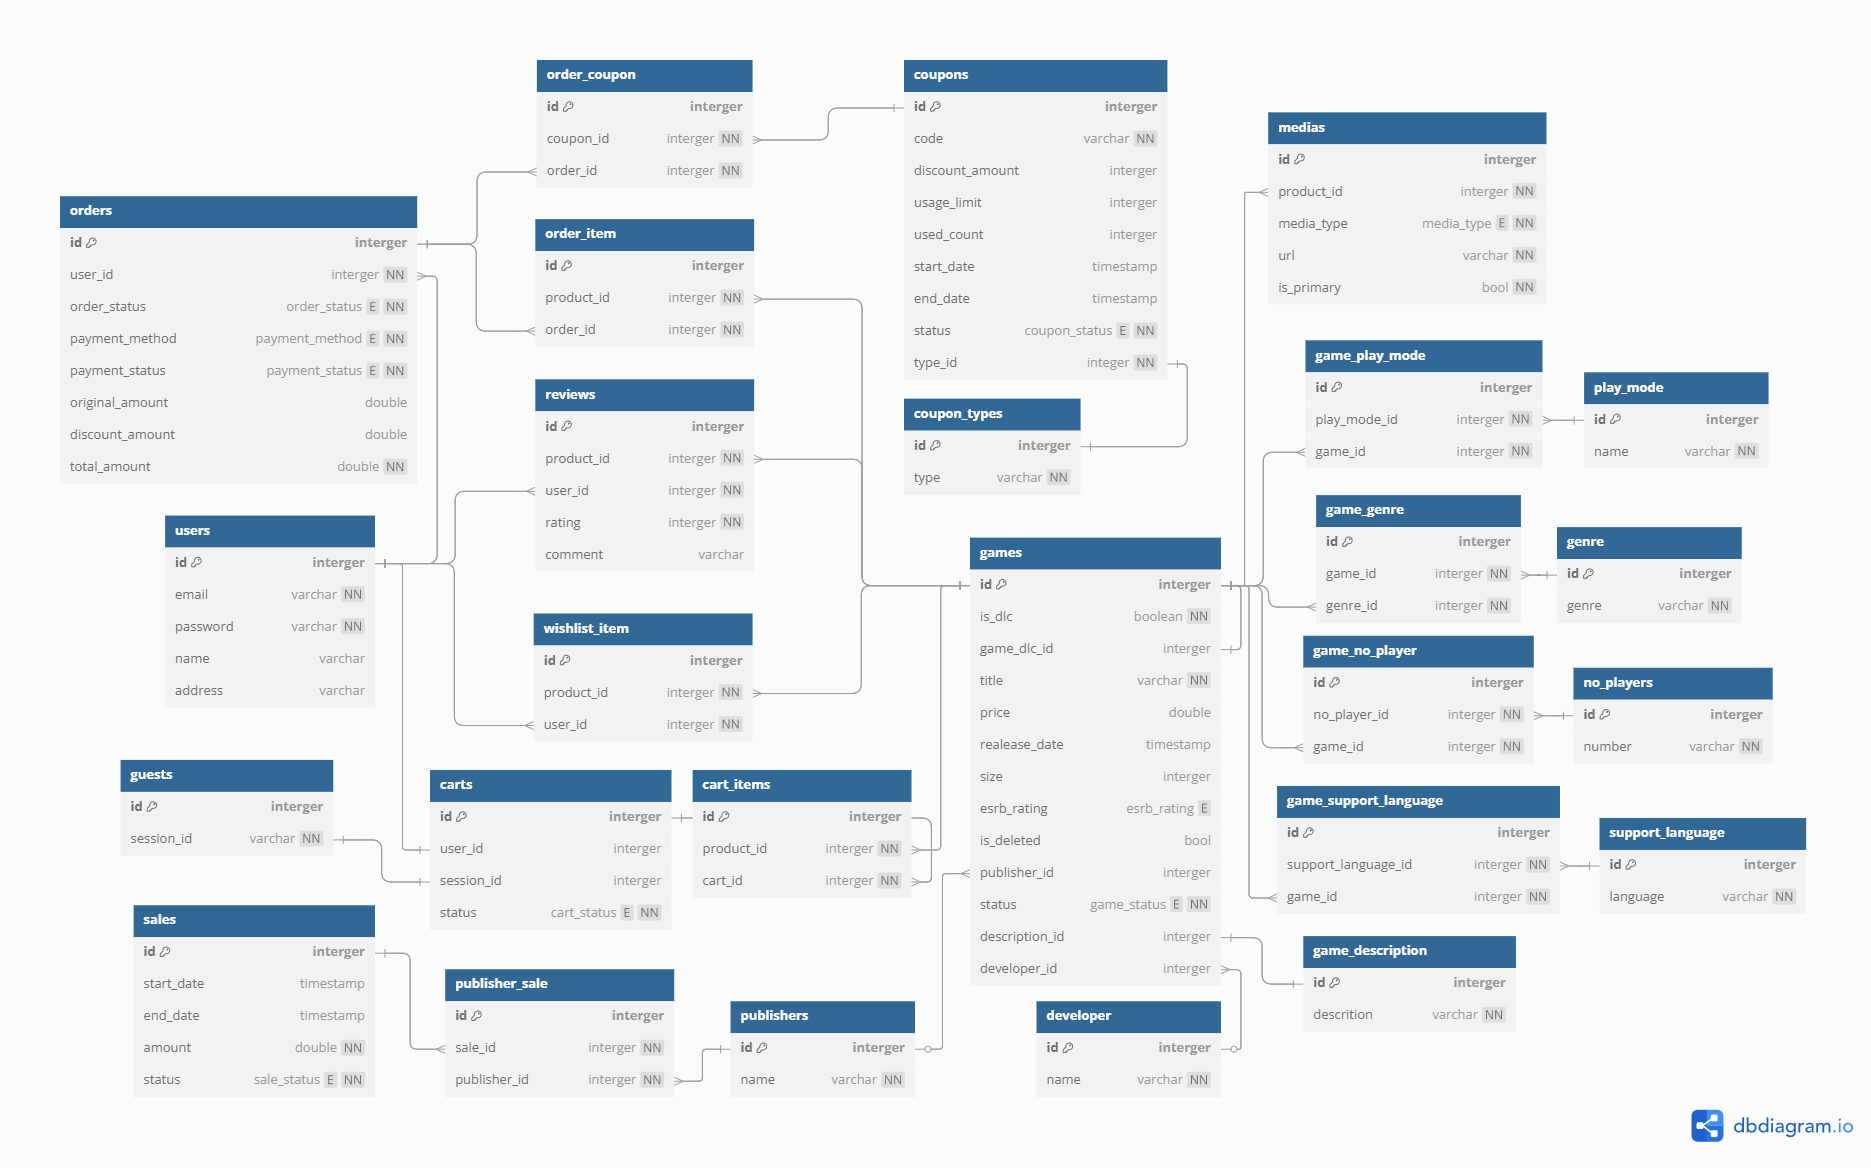
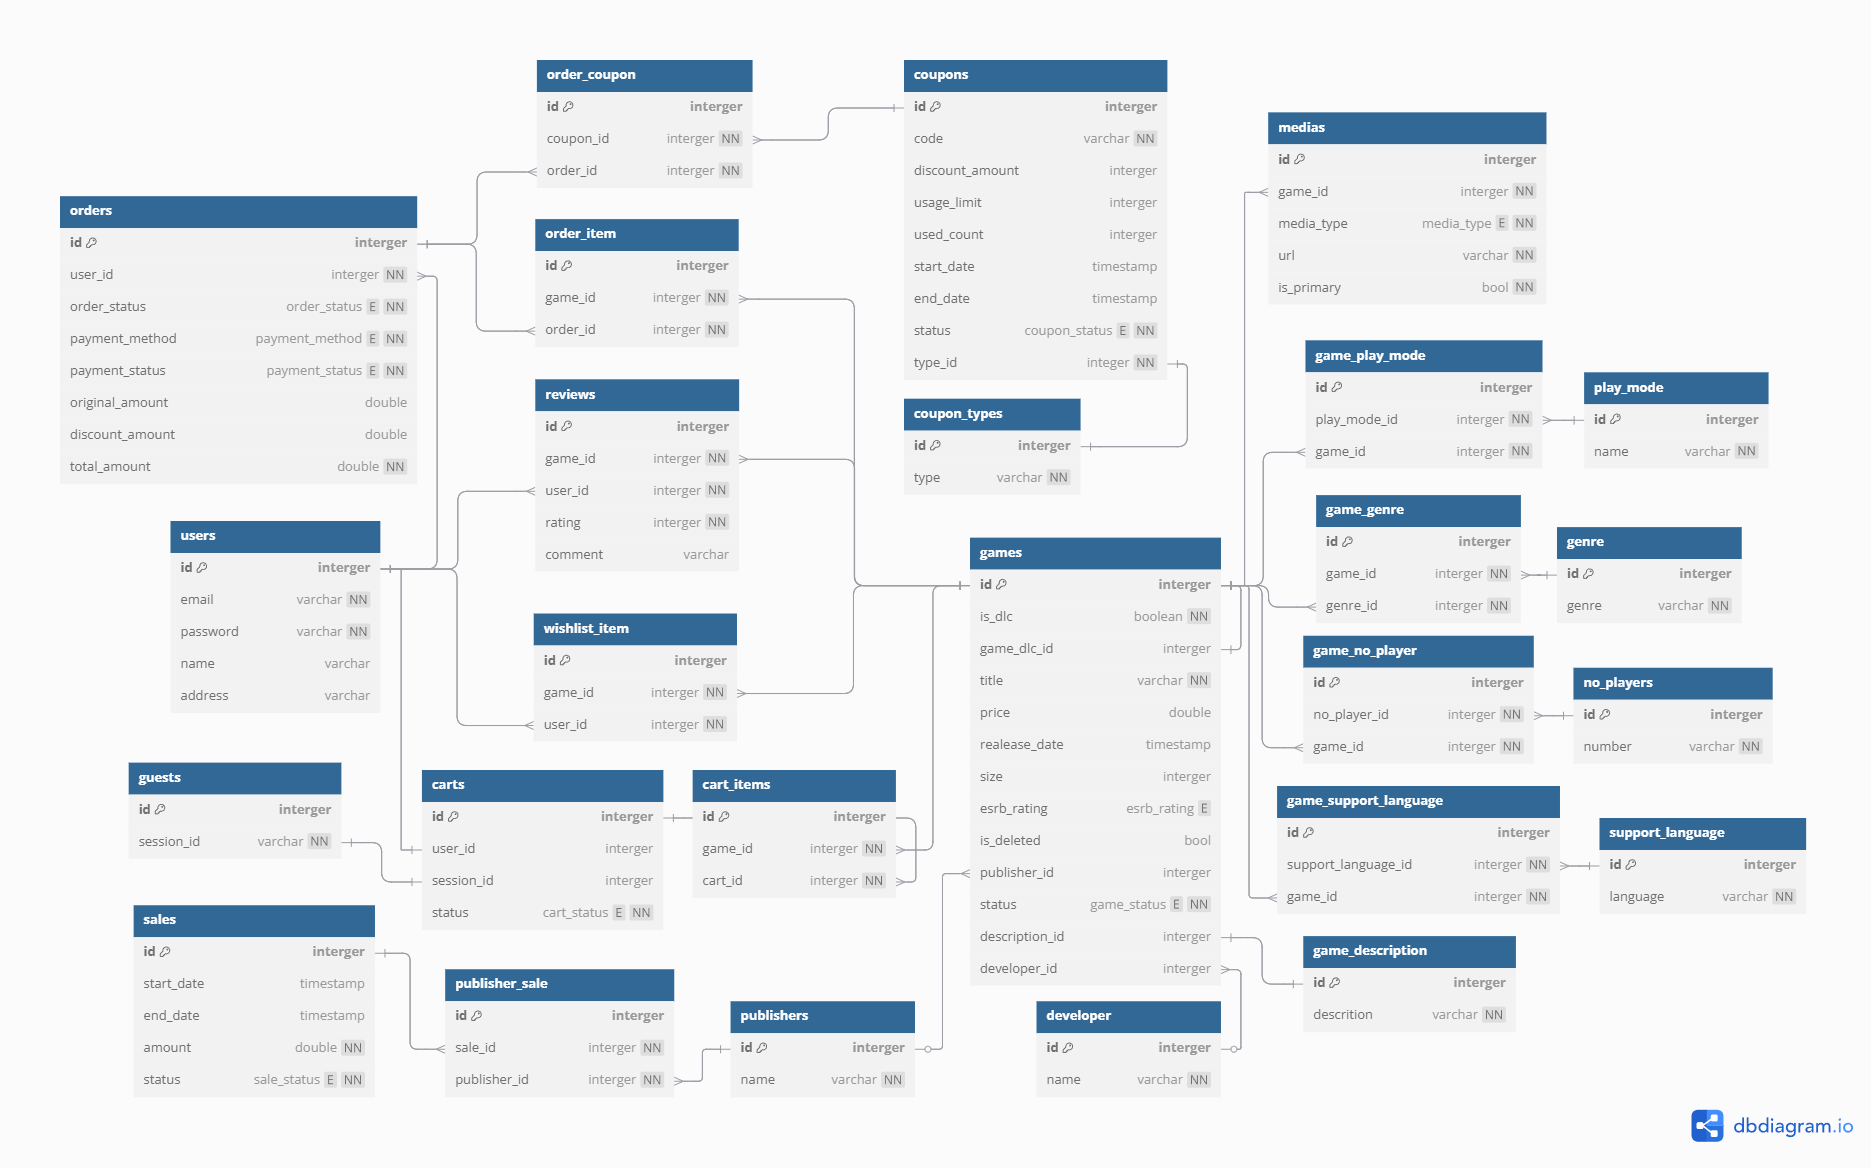
SBC-18

diff --git a/springboot/src/main/java/com/cybersoft/capstone/entity/Reviews.java b/springboot/src/main/java/com/cybersoft/capstone/entity/Reviews.java
@@ -1,9 +1,6 @@
 package com.cybersoft.capstone.entity;
 
-import jakarta.persistence.Entity;
-import jakarta.persistence.GeneratedValue;
-import jakarta.persistence.GenerationType;
-import jakarta.persistence.Id;
+import jakarta.persistence.*;
 import lombok.Data;
 
 import java.io.Serializable;
@@ -14,4 +11,12 @@ public class Reviews implements Serializable {
     @Id
     @GeneratedValue(strategy = GenerationType.IDENTITY)
     private int id;
+
+    @ManyToOne
+    @JoinColumn(name = "game_id", referencedColumnName = "id")
+    private Games game;
+
+    @ManyToOne
+    @JoinColumn(name = "user_id", referencedColumnName = "id")
+    private Users user;
 }

diff --git a/springboot/src/main/java/com/cybersoft/capstone/entity/CartItem.java b/springboot/src/main/java/com/cybersoft/capstone/entity/CartItem.java
@@ -17,6 +17,6 @@ public class CartItem implements Serializable {
     private Carts carts;
 
     @ManyToOne
-    @JoinColumn(name = "product_id", referencedColumnName = "id")
+    @JoinColumn(name = "game_id", referencedColumnName = "id")
     private Games games;
 }

diff --git a/springboot/src/main/java/com/cybersoft/capstone/entity/Games.java b/springboot/src/main/java/com/cybersoft/capstone/entity/Games.java
@@ -45,4 +45,7 @@ public class Games implements Serializable {
 
     @OneToOne(mappedBy = "game")
     private GameMedia gameMedia;
+
+    @OneToMany(mappedBy = "game")
+    private List<Reviews> reviews;
 }
